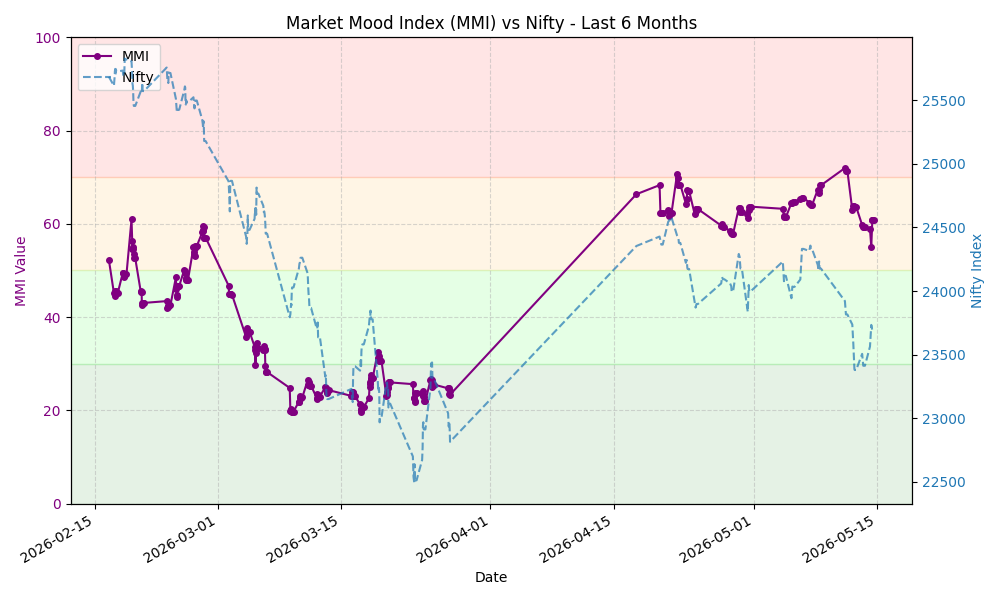
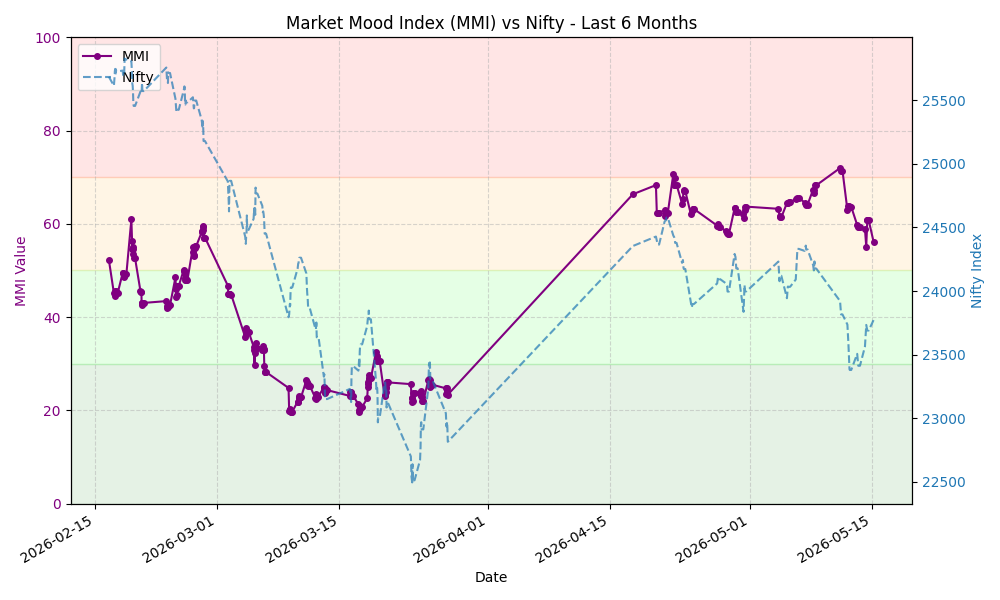
Update MMI data and chart

diff --git a/README.md b/README.md
@@ -7,8 +7,8 @@ This repository automatically fetches the MMI value, stores the history, and gen
 
 ## Latest MMI Value
 
-**60.78** - **Greed**
-<small>Last Updated: 2026-05-14 14:20 UTC</small>
+**56.01** - **Greed**
+<small>Last Updated: 2026-05-15 04:12 UTC</small>
 
 ## MMI Trend (Last 30 Days)
 